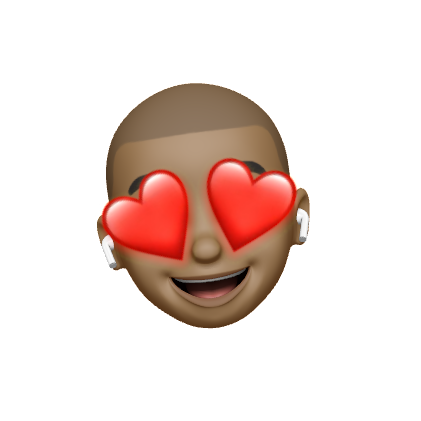
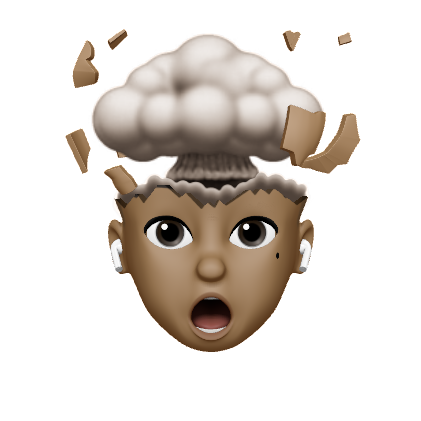
anew layout

Changed region(s): [[0.1544, 0.0618, 0.8646, 0.8337], [0.6485, 0.0618, 0.7102, 0.1235], [0.8029, 0.0618, 0.8337, 0.1235]]

diff --git a/index.html b/index.html
@@ -46,8 +46,8 @@
         <section class="flex row box bg-smoke py-40">
 
 
-            <div class="flex column justify-center  align-center py-200">
-                <img id="memo" src="img/me3.PNG" alt="" srcset="">
+            <div class="flex column justify-center  align-center py-100">
+                <img id="memo" src="img/fme1.PNG" class="memojies" alt="" srcset="">
                 <h1 class="font-900 my-25 ">
                     Criado para facilitar a vida dos Devs.
                 </h1>
@@ -105,14 +105,13 @@
             </div>
         </section>
 
-
         <section class="flex row box bg-smoke  space-between">
             <div class="flex column justify-center ">
                 <h1 class="small">Abuse do puder do web stack !
                 </h1>
                 <h2 class="my-20">Amamos o web stack , está livre para <br>utilizar quais tecnologias do web stack
                     quiser</h2>
-                <img id="memoji" src="img/me8.PNG" alt="" srcset="">
+                <img id="memoji" src="img/me11.PNG" class="memojies" alt="" srcset="">
 
             </div>
 
@@ -134,18 +133,19 @@
             </div>
 
         </section>
-        <section class="flex row box bg-smoke  space-between ">
-            <div class="flex column justify-center ">
-                <h1 class="small">Angola precisa de mudanças!
+        <section class="flex row box  justify-center  ">
+            <div class="flex column justify-center align-center">
+                <h1 class="small">Angola precisa de <span class="underline gray">mudanças</span>!
                 </h1>
-                <h2 class="my-20">Nós acreditamos que Angola precisa <br> de grandes mudanças,
+                <h2 class="my-20 text-center">Nós acreditamos que Angola precisa <br> de grandes mudanças,
                     essas
                     mudanças acontecerão apenas<br> se
                     cada um de nós tomar algumas iniciativa.</h2>
 
-                <img id="memoji" src="img/me2.PNG" alt="" srcset="">
+                <img id="memoji" src="img/me2.PNG" class="memojies" alt="" srcset="">
             </div>
-            <div class="grid box-board">
+
+            <div class="grid box-board hide">
                 <h1>NOSSOS APOIADORES</h1>
                 <span>Inovarmos</span>
                 <span>Konsertus</span>

diff --git a/js/main.js b/js/main.js
@@ -3,20 +3,20 @@ let memoji = document.getElementById('memoji');
 let count = 1;
 let count2 = 11;
 setInterval(() => {
-    me.src = `http://127.0.0.1:5500/img/me${count}.PNG`
-    if (count <= 10) {
+    me.src = `img/fme${count}.PNG`
+    if (count <= 4) {
         count++
-        if (count > 10) {
+        if (count > 4) {
             count = 1
         }
     }
-}, 1000);
+}, 2000);
 setInterval(() => {
-    memoji.src = `http://127.0.0.1:5500/img/me${count2}.PNG`
-    if (count2 <= 15) {
+    memoji.src = `img/me${count2}.PNG`
+    if (count2 <= 13) {
         count2++
-        if (count2 > 15) {
+        if (count2 > 13) {
             count2 = 11
         }
     }
-}, 1000);
+}, 2500);

diff --git a/css/style.css b/css/style.css
@@ -194,7 +194,7 @@ nav {
 
 .cover {
     width: 100%;
-    height: 700px;
+    height: 800px;
     background-color: #ffff;
     background-color: #000;
     background-repeat: no-repeat;
@@ -222,7 +222,7 @@ nav {
 .bg-image1 {
     width: 100%;
     height: 850px;
-    background-image: url('/img/desktop.jpg');
+    background-image: url('../img/desktop.jpg');
     background-repeat: no-repeat;
     background-size: cover;
 }
@@ -230,7 +230,7 @@ nav {
 .bg-image2 {
     width: 100%;
     height: 850px;
-    background-image: url('/img/desk.jpg');
+    background-image: url('../img/desk.jpg');
     background-repeat: no-repeat;
     background-size: cover;
 }

diff --git a/css/utilities.css b/css/utilities.css
@@ -4,6 +4,10 @@
     color: #f5f5f5f7;
 }
 
+.gray {
+    color: rgb(231, 209, 6);
+}
+
 .dark-blue {
     color: rgb(14, 14, 82);
 }
@@ -349,4 +353,15 @@
 
 .text-container {
     width: 50%;
+}
+
+.underline {
+    text-decoration: underline;
+}
+
+/*memojis*/
+
+.memojies {
+    width: 400px;
+    height: 400px;
 }
